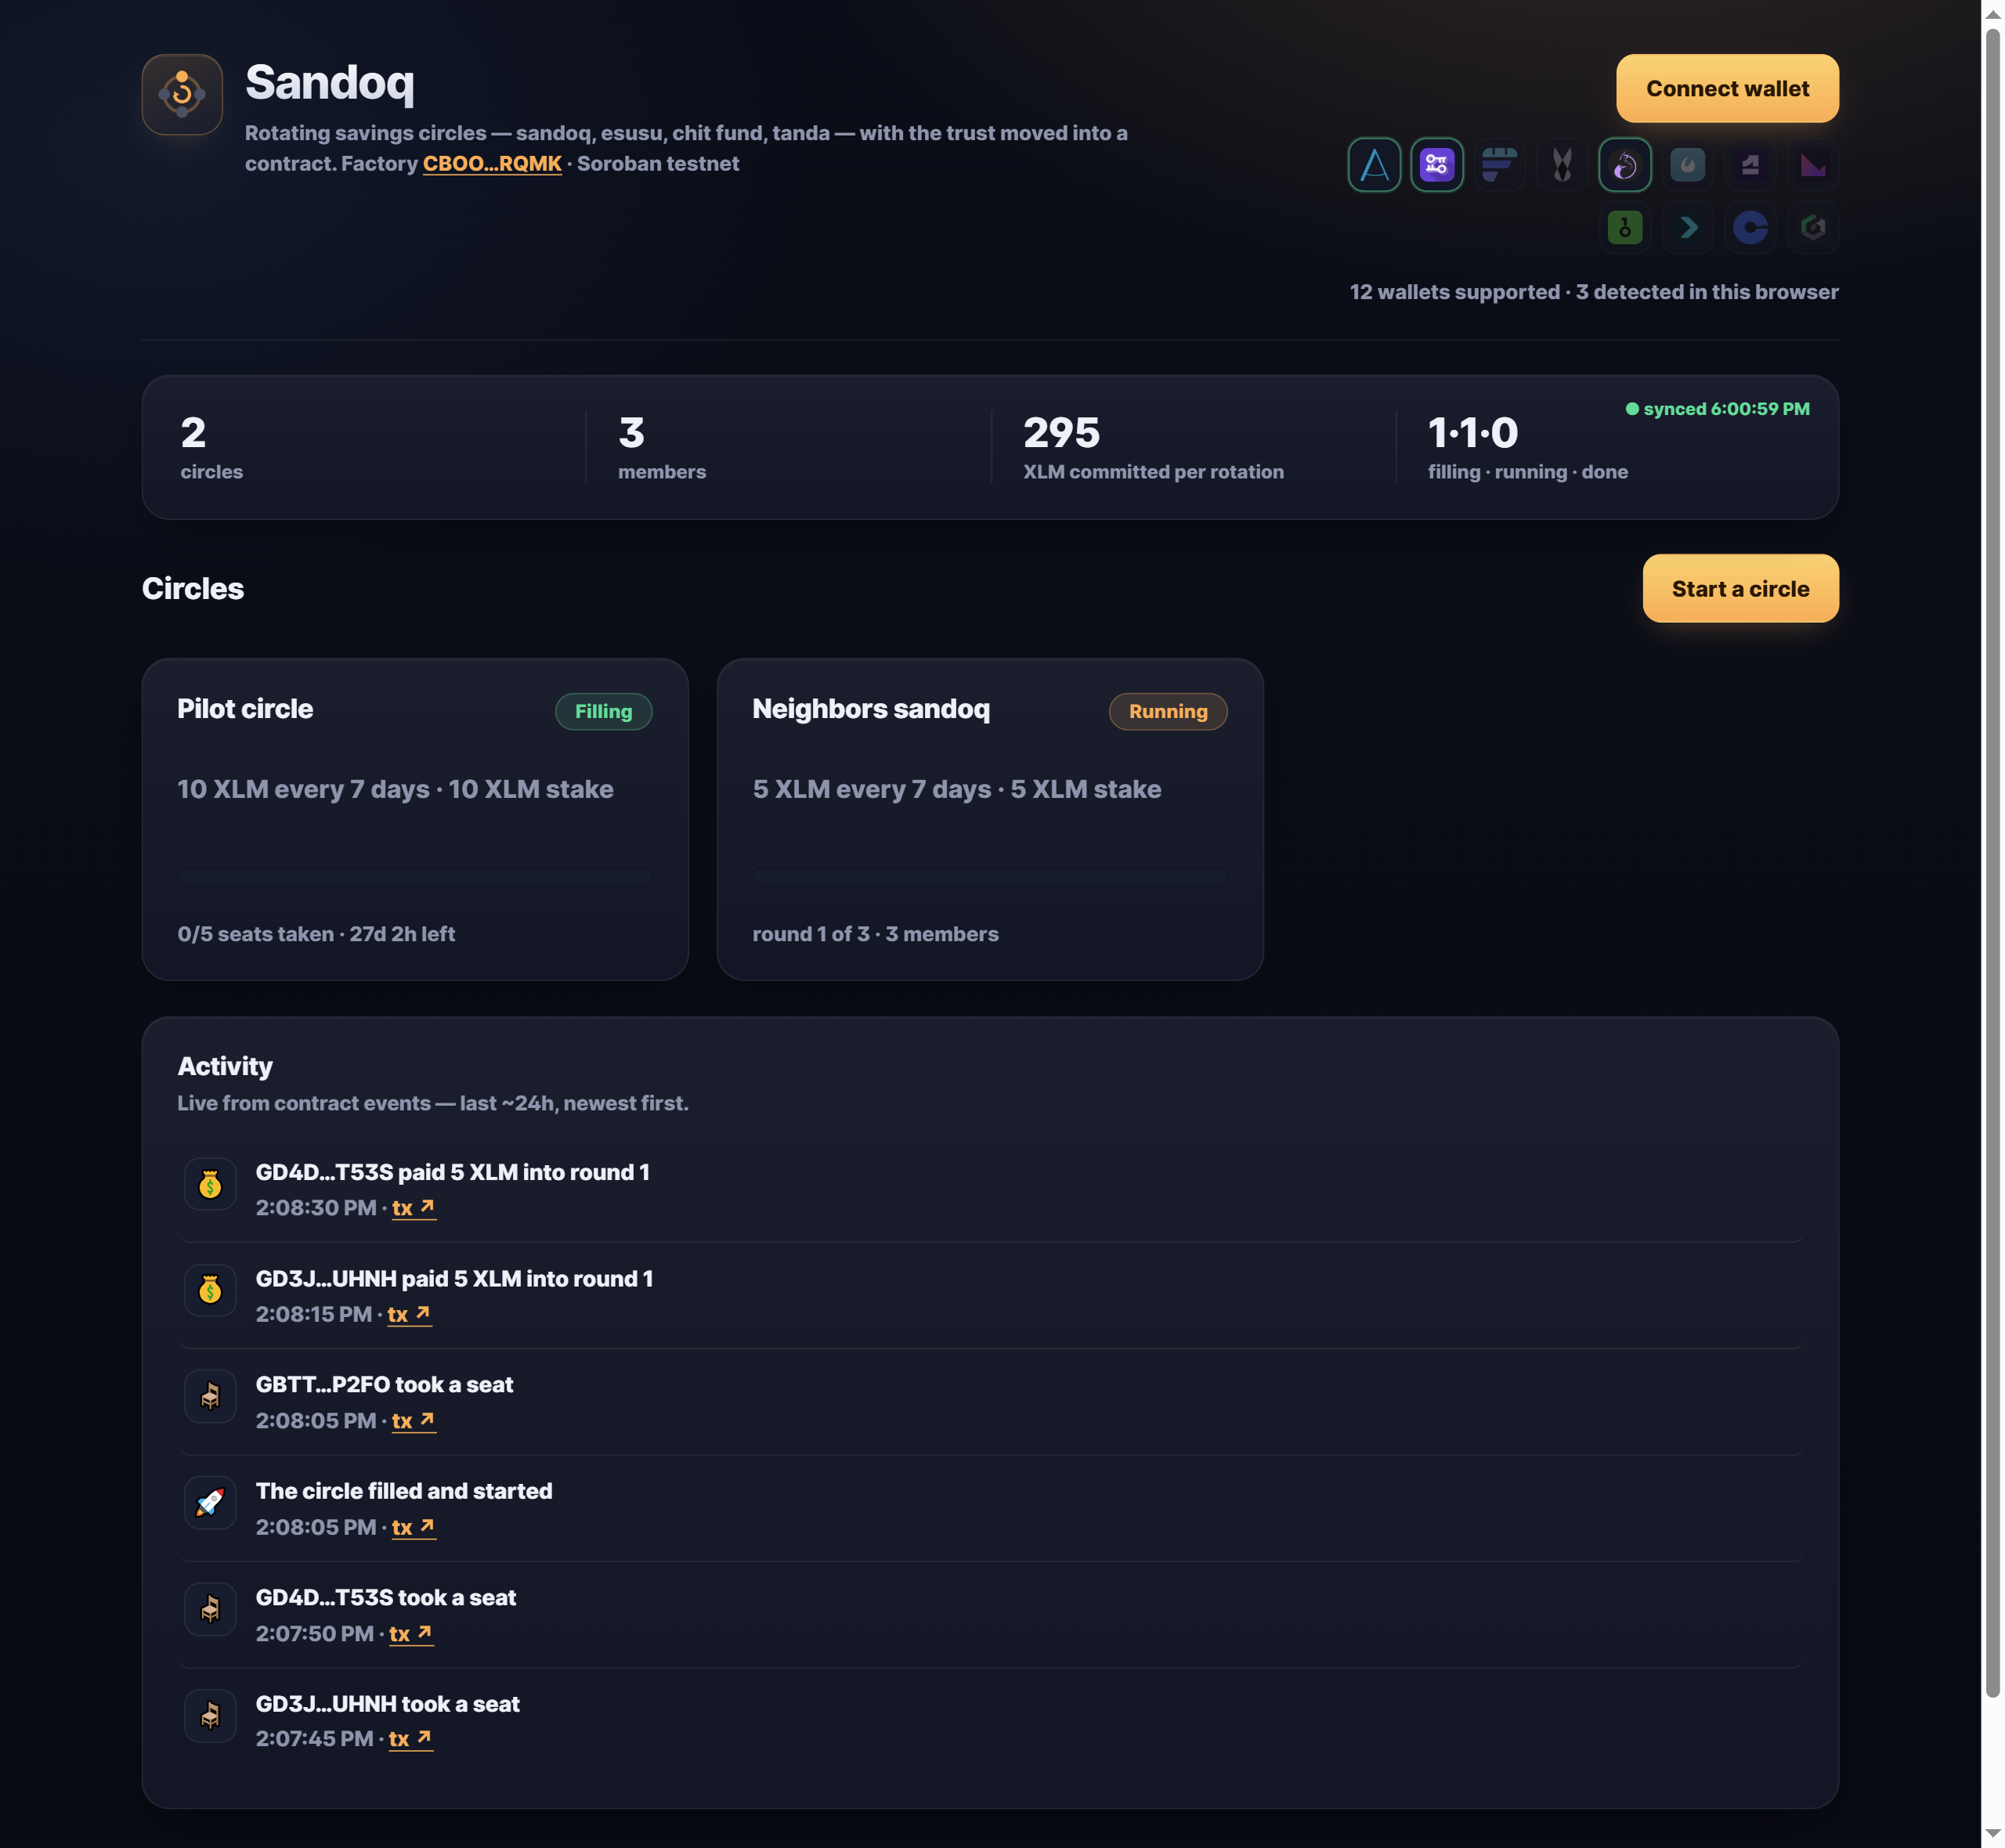
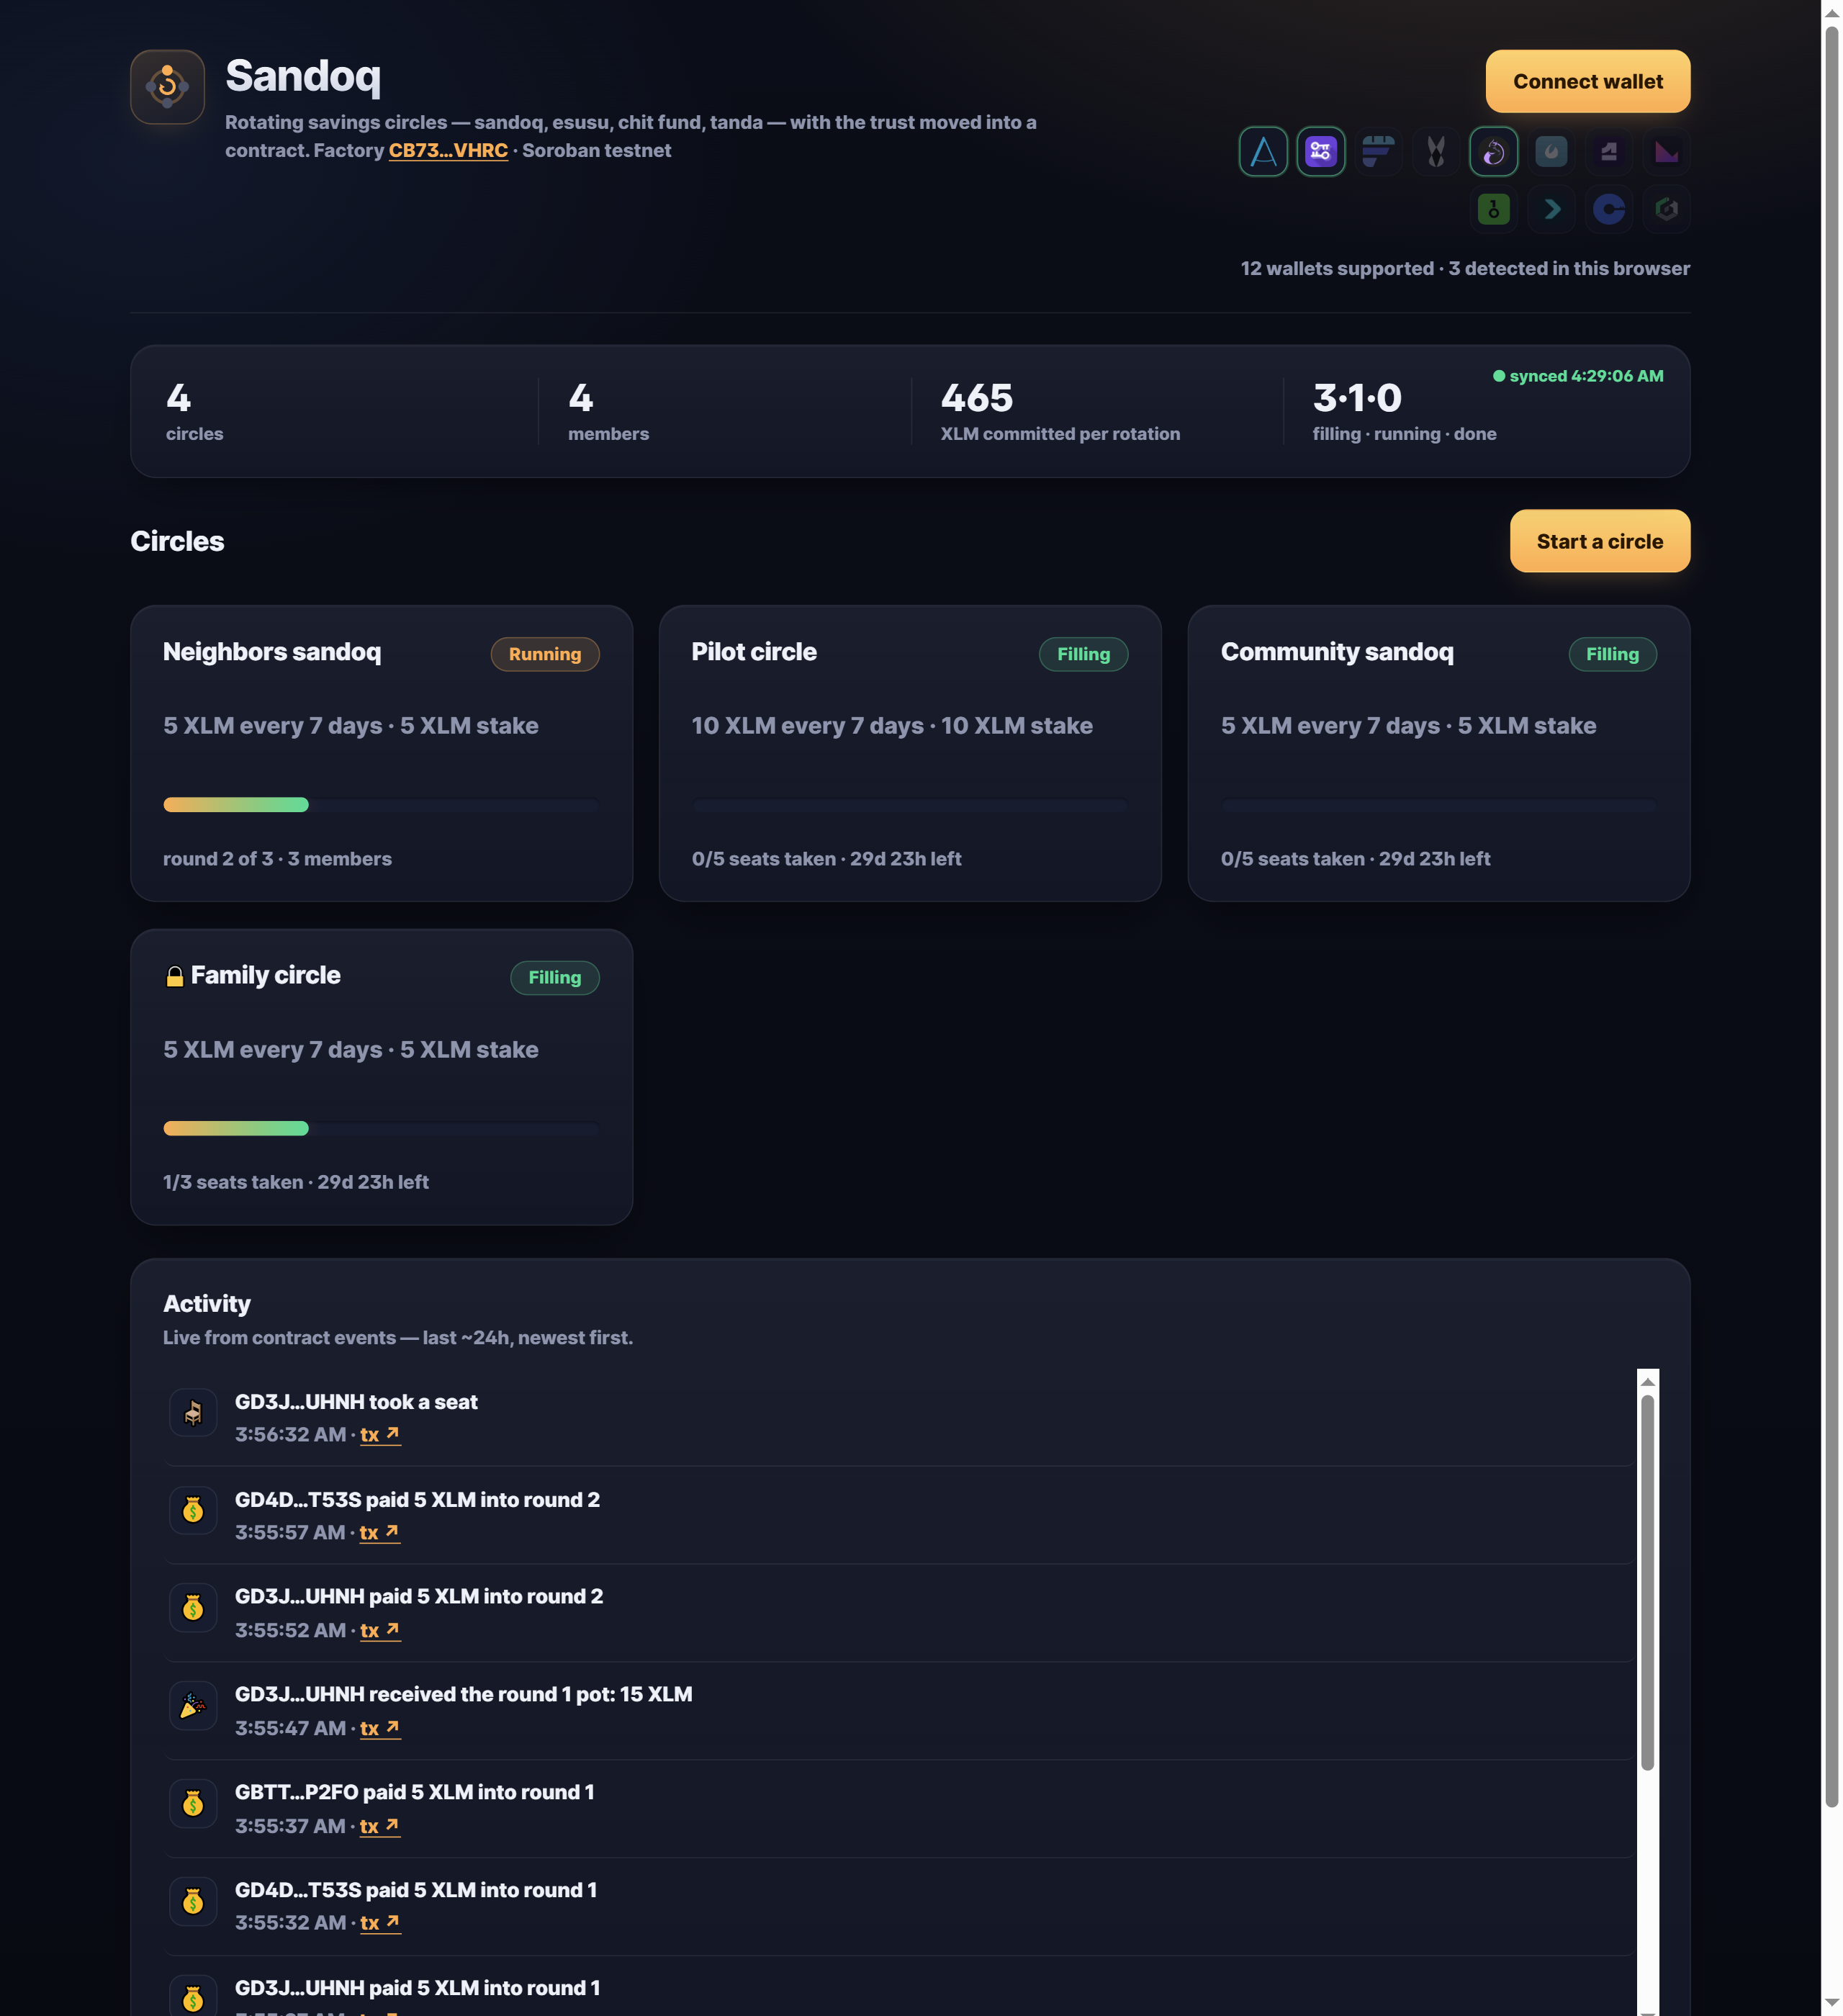
Document invite-only circles and who Sandoq is for
README: new factory + circle wasm addresses, allow()/can_join() and the
public-vs-private model in the contract docs, and an honest Who Sandoq
is for section — trusted groups with low collateral, not anonymous
strangers. Refreshed the home screenshot showing a locked circle.

diff --git a/README.md b/README.md
@@ -85,17 +85,40 @@ up.)
 
 ---
 
+## Who Sandoq is for
+
+Being honest about this matters more than overclaiming.
+
+**Sandoq is for people who already trust each other** — a family, coworkers, a neighbourhood, a
+diaspora group, an online community. That's who runs savings circles in the real world, and it's who
+gains here. Trusted circles keep low or zero collateral, so the early receiver still gets a genuine
+interest-free lump sum — and Sandoq removes the three things that actually break these circles:
+
+- **The organizer can't run off with the pot** — the contract holds every stake and pays every
+  payout. This is the failure that sinks real circles.
+- **No notebook, no disputes** — every contribution and payout is on the ledger.
+- **It works across borders** — a diaspora can run a circle with family back home; a notebook can't
+  cross a border.
+
+**It is not, honestly, a fit for total strangers.** Full trustlessness needs collateral equal to the
+whole pot, which cancels the interest-free-loan benefit that draws people to circles in the first
+place — the tension every on-chain ROSCA runs into. So the sweet spot is **low collateral among
+people with some connection**, made safe by invite-only circles and no-custody escrow — not
+"trustless among anonymous strangers". The realistic first users are crypto-comfortable communities
+and diaspora groups; bridging to the unbanked savers who use offline circles today (anchor
+on/off-ramps, on-chain reputation) is the roadmap, not the MVP's claim.
+
+---
+
 ## On-chain artifacts
 
 Everything below is live on Stellar **testnet**.
 
 | | |
 |---|---|
-| **Factory contract** | [`CBOOAEERB5DOTXXMZKURAVQXJQYTGMCJCSJWYQSPKVEWB5BSE5ZYRQMK`](https://stellar.expert/explorer/testnet/contract/CBOOAEERB5DOTXXMZKURAVQXJQYTGMCJCSJWYQSPKVEWB5BSE5ZYRQMK) |
+| **Factory contract** | [`CB73QYCRM7BXR52W6FUTNCF6SVLAD26QTLUJCPMOKVKI7A6FPGNBVHRC`](https://stellar.expert/explorer/testnet/contract/CB73QYCRM7BXR52W6FUTNCF6SVLAD26QTLUJCPMOKVKI7A6FPGNBVHRC) |
 | **Feedback registry** | [`CA3FBYWIJUJPUSU7I75M343FEDGLXNXPXIF4QUUAKKZK5NZLPETSETO7`](https://stellar.expert/explorer/testnet/contract/CA3FBYWIJUJPUSU7I75M343FEDGLXNXPXIF4QUUAKKZK5NZLPETSETO7) |
[1 lines of base64/hex data omitted]
-| **Pilot circle** (factory-deployed) | [`CCZG3DK2QP7RE76NFCLTVWVOASFYOV2X4VYN52OXQBTXHSBPT6GWJJRW`](https://stellar.expert/explorer/testnet/contract/CCZG3DK2QP7RE76NFCLTVWVOASFYOV2X4VYN52OXQBTXHSBPT6GWJJRW) |
[2 lines of base64/hex data omitted]
 | **Circle token** | Native XLM, via its Stellar Asset Contract |
 
 The recorded wasm hash is reproducible: `make build` on this tree produces a `circle.wasm` whose
@@ -210,7 +233,12 @@ contract afterwards — the factory cannot touch its funds.
 | `contribute(member)` | member | Pays the current round; only inside its window, only once |
 | `settle()` | — | Permissionless crank: covers misses from collateral, pays the pot to the round's member, rotates |
 | `reclaim(member)` | member | Returns surviving collateral once the circle completes |
-| `state()` / `members()` / `member(addr)` / `has_paid(round, addr)` | — | Reads for the frontend |
+| `allow(members)` | organizer | Invites addresses to a *private* circle, while filling |
+| `state()` / `members()` / `member(addr)` / `has_paid(round, addr)` / `can_join(addr)` | — | Reads for the frontend |
+
+A circle can be **public** (anyone joins) or **invite-only** (`private`). On a private circle only
+the organizer and addresses they `allow()` may `join`; everyone else is rejected with `NotAllowed`.
+This is what makes Sandoq usable by a real group — you invite your circle, not the open internet.
 
 Events: `joined`, `left`, `started`, `contributed`, `slashed`, `paid_out`, `completed`,
 `reclaimed` — each carrying the member address as an indexed topic where it has one.